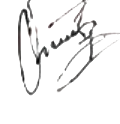
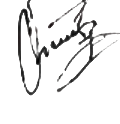
Certificates: clearer signatures that no longer overlap closing text
Regenerated signature crops ~45% darker (ink luminance 49-59). Renderer now anchors the handwriting ink to an adaptive band that starts 24px below the close2 line and sits on the signature line (moved to y=1042), so '...and wish you success in your future endeavors.' is never covered, regardless of course/location wrapping. Names/roles stay below the line.

diff --git a/src/pages/CertificatePage.tsx b/src/pages/CertificatePage.tsx
@@ -70,7 +70,14 @@ const BRICK = "rgba(183,110,110,0.16)";
 const BRICK_LINE = "rgba(183,110,110,0.4)";
 const INK = "#1c1c1c";
 
-// Real signatures extracted from the official issued certificate (transparent PNGs)
+// Real signatures extracted from the official issued certificate (transparent PNGs).
+// `padTop`/`inkH` describe where the ink sits inside each crop so we can anchor the
+// handwriting to a fixed canvas band regardless of the crop's transparent padding.
+const SIG_META = {
+  left: { natH: 124, padTop: 0, inkH: 95 },
+  right: { natH: 108, padTop: 4, inkH: 96 },
+} as const;
+
 const signatureCache = new Map<string, HTMLImageElement>();
 function getSignature(url: string): Promise<HTMLImageElement | null> {
   const hit = signatureCache.get(url);
@@ -84,11 +91,21 @@ function getSignature(url: string): Promise<HTMLImageElement | null> {
   });
 }
 
-function drawSignature(ctx: CanvasRenderingContext2D, img: HTMLImageElement | null, cx: number, lineY: number) {
+function drawSignature(
+  ctx: CanvasRenderingContext2D,
+  img: HTMLImageElement | null,
+  key: keyof typeof SIG_META,
+  cx: number,
+  inkTop: number,
+  inkBottom: number
+) {
   if (!img || !img.naturalWidth) return;
-  const targetH = 96;
-  const w = (img.naturalWidth / img.naturalHeight) * targetH;
-  ctx.drawImage(img, cx - w / 2, lineY - targetH + 8, w, targetH);
+  const m = SIG_META[key];
+  const span = inkBottom - inkTop;
+  const scale = span / m.inkH;
+  const drawH = m.natH * scale;
+  const drawW = img.naturalWidth * scale;
+  ctx.drawImage(img, cx - drawW / 2, inkTop - m.padTop * scale, drawW, drawH);
 }
 
 const SERIF = "'Fraunces','Noto Sans Devanagari',Georgia,serif";
@@ -342,11 +359,13 @@ async function drawCertificateImage(cert: RenderOpts): Promise<HTMLCanvasElement
   // Closing
   ctx.font = `italic 400 17px ${BODY}`;
   ctx.fillStyle = "#5a5a5a";
-  ctx.fillText(T.close1, bodyCx, y + 64);
-  ctx.fillText(T.close2, bodyCx, y + 92);
+  const close1Y = y + 64;
+  const close2Y = y + 92;
+  ctx.fillText(T.close1, bodyCx, close1Y);
+  ctx.fillText(T.close2, bodyCx, close2Y);
 
   // ── Signatures ──
-  const sigY = 1024;
+  const sigY = 1042;
   const leftX = 620;
   const rightX = 1035;
   ctx.strokeStyle = "#b8b2a0";
@@ -359,9 +378,13 @@ async function drawCertificateImage(cert: RenderOpts): Promise<HTMLCanvasElement
   ctx.stroke();
 
   // ── Real handwritten signatures (from the official issued certificate) ──
+  // Adaptive placement: ink always starts below the closing text and sits on the line,
+  // so it never overlaps "...and wish you success in your future endeavors."
   const [sigLeft, sigRight] = await Promise.all([getSignature(sigLeftUrl), getSignature(sigRightUrl)]);
-  drawSignature(ctx, sigLeft, leftX, sigY);
-  drawSignature(ctx, sigRight, rightX, sigY);
+  const inkTop = close2Y + 24;
+  const inkBottom = Math.max(inkTop + 64, sigY);
+  drawSignature(ctx, sigLeft, "left", leftX, inkTop, inkBottom);
+  drawSignature(ctx, sigRight, "right", rightX, inkTop, inkBottom);
 
   ctx.textAlign = "center";
   ctx.fillStyle = ORG_NAVY;
